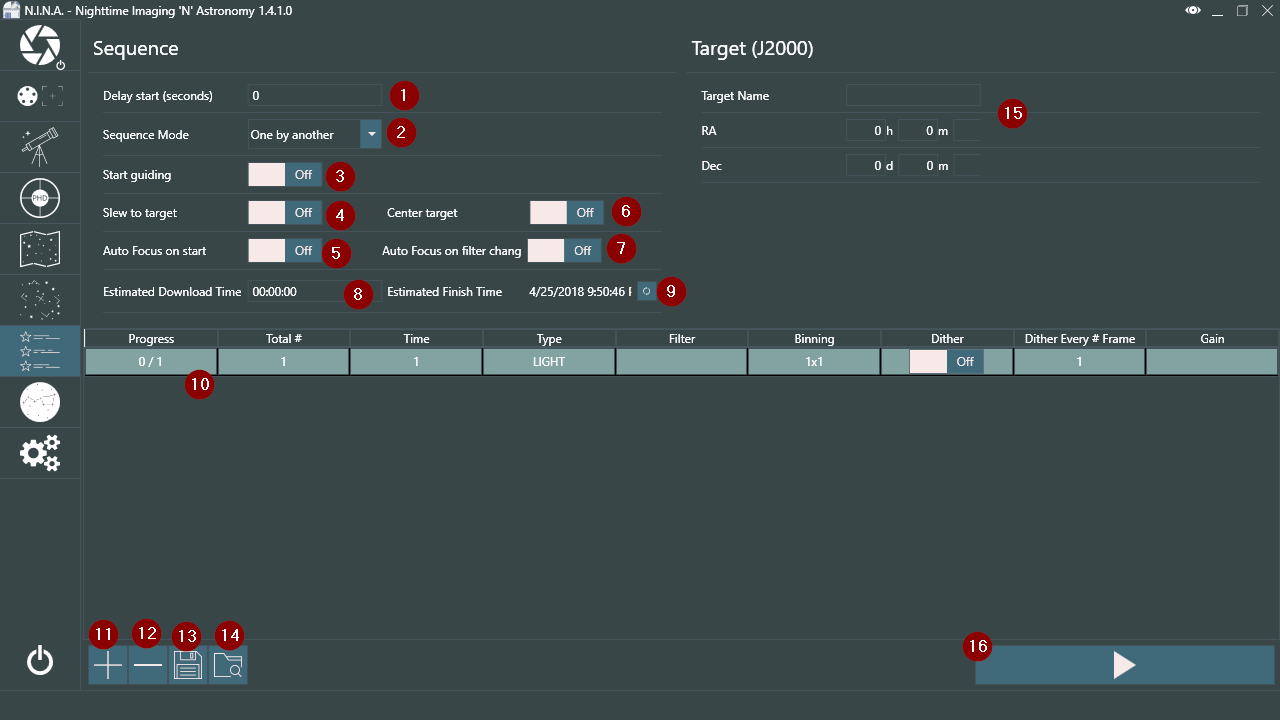
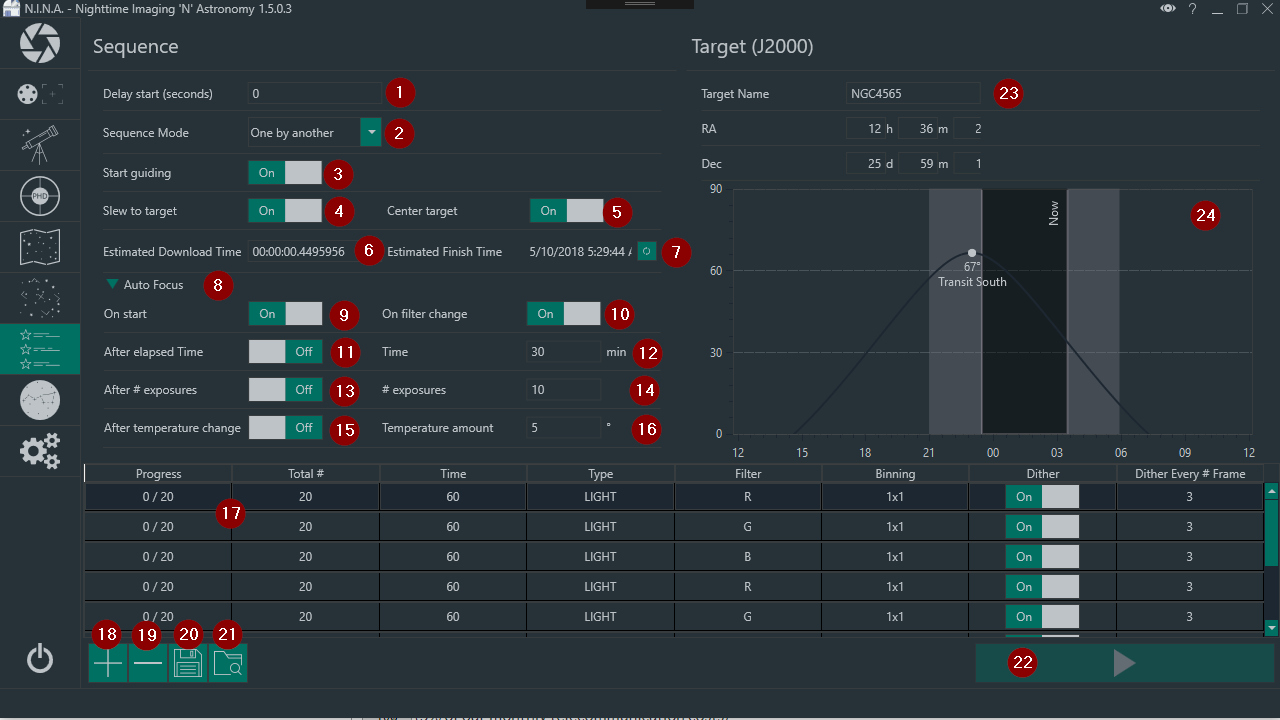
Added new autofocus options to manual
Former-commit-id: fb9f96f5a917602a64ed3b6715b5642a5051645a
Former-commit-id: 5c80f98a3498c001416dba45dba9d27e1d8db925

diff --git a/NINA/Documentation/NINA.html b/NINA/Documentation/NINA.html
@@ -896,14 +896,6 @@
 <li>Does not Plate Solve to verify it is on target</li>
 </ul>
 </li>
-<li><strong>Auto focus on start</strong>
-<ul>
-<li>Starts the auto focuser sequence to pinpoint the automatic focus</li>
-</ul>
-<blockquote>
-<p>Requires a connected auto focuser</p>
-</blockquote>
-</li>
 <li><strong>Center target</strong>
 <ul>
 <li>Will center the target given the Ra and Dec coordinates</li>
@@ -911,14 +903,6 @@
 </ul>
 <blockquote>
 <p>Requires a set up <a href="#plate-solving-settings">primary plate solver</a></p>
-</blockquote>
-</li>
-<li><strong>Auto focus on filter change</strong>
-<ul>
-<li>Starts the auto focus routine for every switch of the filter wheel</li>
-</ul>
-<blockquote>
-<p>Requires a connected <a href="#tab-filter-wheel-and-focuser">auto focuser</a></p>
 </blockquote>
 </li>
 <li><strong>Estimated Download Time</strong>
@@ -937,6 +921,57 @@ Will be added to calculations of (9)</p>
 </ul>
 <blockquote>
 <p>Needs to be manually refreshed using the button on the right of the estimation</p>
+</blockquote>
+</li>
+<li><strong>Auto Focus Expander</strong>
+<ul>
+<li>Will show all enabled auto focus options when not expanded</li>
+</ul>
+<blockquote>
+<p>All settings inside require a connected <a href="#tab-filter-wheel-and-focuser">auto focuser</a></p>
+</blockquote>
+</li>
+<li><strong>Auto focus on start</strong>
+<ul>
+<li>Starts the auto focuser sequence to pinpoint the automatic focus</li>
+</ul>
+</li>
+<li><strong>Auto focus on filter change</strong>
+<ul>
+<li>Starts the auto focus routine for every switch of the filter wheel</li>
+</ul>
+</li>
+<li><strong>Auto focus after elapsed time</strong>
+<ul>
+<li>Starts the auto focus routine after a set amount of time has passed since the last auto focus routine</li>
+</ul>
+</li>
+<li><strong>Time that has to pass</strong>
+<ul>
+<li>Specifies the time in minutes that have to pass to trigger the auto focus routine</li>
+</ul>
+</li>
+<li><strong>Auto focus after a number of exposures</strong>
+<ul>
+<li>Starts the auto focus routine after a set amount of exposures have been taken since the last auto focus routine</li>
+</ul>
+</li>
+<li><strong>Amount of exposures</strong>
+<ul>
+<li>Specifies the number of exposures that have to be taken to trigger the auto focus routine</li>
+</ul>
+</li>
+<li><strong>Auto focus after a temperature change</strong>
+<ul>
+<li>Starts the auto focus routine after a set amount of temperature change</li>
+</ul>
+</li>
+<li><strong>Amount of temperature change</strong>
+<ul>
+<li>Specifies the temperature difference that has to be reached after the last auto focus routine</li>
+</ul>
+<blockquote>
+<p>Requires a temperature sensor that reports the temperature for the <a href="#tab-filter-wheel-and-focuser">auto focuser</a></p>
 </blockquote>
 </li>
 <li><strong>Sequence entry</strong>
@@ -982,13 +1017,6 @@ Will be added to calculations of (9)</p>
 <li>Will overwrite all current sequence settings</li>
 </ul>
 </li>
-<li><strong>Target information</strong>
-<ul>
-<li>Shows you the target name, RA and Dec</li>
-<li>Can be changed from here</li>
-<li>RA and Dec will affect slew on start (4) and center target (6)</li>
-</ul>
-</li>
 <li><strong>Start Sequence</strong>
 <ul>
 <li>Starts the sequence</li>
@@ -999,6 +1027,21 @@ Will be added to calculations of (9)</p>
 </ul>
 </li>
 </ul>
+</li>
+<li><strong>Target information</strong>
+<ul>
+<li>Shows you the target name, RA and Dec</li>
+<li>Can be changed from here</li>
+<li>RA and Dec will affect slew on start (4) and center target (6)</li>
+</ul>
+</li>
+<li><strong>Object altitude</strong>
+<ul>
+<li>Shows the objects altitude, what direction it will transit and the darkness phase of today, including the current time</li>
+</ul>
+<blockquote>
+<p>Altitude depends on Latitude and Longitude set in the <a href="#general-settings">Settings</a></p>
+</blockquote>
 </li>
 </ol>
 <hr />

diff --git a/NINA/Documentation/NINA.md b/NINA/Documentation/NINA.md
@@ -497,25 +497,39 @@ With Sequences you are able to create imaging sequences with various options for
 4. **Slew to target**
     - Slews to the target as specified in RA and Dec
     - Does not Plate Solve to verify it is on target
-5. **Auto focus on start**
-    - Starts the auto focuser sequence to pinpoint the automatic focus
-    > Requires a connected auto focuser
-6. **Center target**
+5. **Center target**
     - Will center the target given the Ra and Dec coordinates
     - Utilizes the plate solver as specified in the settings
     > Requires a set up [primary plate solver](#plate-solving-settings)
-7. **Auto focus on filter change**
-    - Starts the auto focus routine for every switch of the filter wheel
-    > Requires a connected [auto focuser](#tab-filter-wheel-and-focuser)
-8. **Estimated Download Time**
+6. **Estimated Download Time**
     - You can enter the approximate download time your camera takes to download a single image
     > Will be automatically populated with the average download times as measured by NINA on image download  
     > Will be added to calculations of (9)
-9. **Estimated Finish Time**
+7. **Estimated Finish Time**
     - Shows you the estimated finish time when your sequence will end
     - Adds the download time (8) to each sequence entry
     > Needs to be manually refreshed using the button on the right of the estimation
-10. **Sequence entry**
+8. **Auto Focus Expander**
+    - Will show all enabled auto focus options when not expanded
+    > All settings inside require a connected [auto focuser](#tab-filter-wheel-and-focuser)
+9. **Auto focus on start**
+    - Starts the auto focuser sequence to pinpoint the automatic focus    
+10. **Auto focus on filter change**
+    - Starts the auto focus routine for every switch of the filter wheel
+11. **Auto focus after elapsed time**
+    - Starts the auto focus routine after a set amount of time has passed since the last auto focus routine
+12. **Time that has to pass**
+    - Specifies the time in minutes that have to pass to trigger the auto focus routine
+13. **Auto focus after a number of exposures**
+    - Starts the auto focus routine after a set amount of exposures have been taken since the last auto focus routine
+14. **Amount of exposures**
+    - Specifies the number of exposures that have to be taken to trigger the auto focus routine
+15. **Auto focus after a temperature change**
+    - Starts the auto focus routine after a set amount of temperature change
+16. **Amount of temperature change**
+    - Specifies the temperature difference that has to be reached after the last auto focus routine
+    > Requires a temperature sensor that reports the temperature for the [auto focuser](#tab-filter-wheel-and-focuser)
+17. **Sequence entry**
     - Each sequence entry consists out of up to 9 columns which determine how the image will be shot
         - Progress: shows the current progress of the image sequence
         - Total #: the amount of frames for that specific sequence entry
@@ -528,24 +542,27 @@ With Sequences you are able to create imaging sequences with various options for
         - Dither Every # Frame: will dither only every # frame as set when dithering is enabled
         - Gain: Change the gain of the camera for this entry. Only available when camera can set gain
     - Sequences cannot be changed while the sequence is running, you need to pause, abort it or wait until it’s finished to change the amount of frames
-11. **Add new Sequence entry**
+18. **Add new Sequence entry**
     - Adds a new sequence entry line
-12. **Delete Sequence entry**
+19. **Delete Sequence entry**
     - Deletes the currently selected sequence line
-13. **Save Sequence**
+20. **Save Sequence**
     - Allows you to save the sequence as a .xml file
-14. **Open Sequence**
+21. **Open Sequence**
     - Allows to load a previously saved sequence file.
     - Will overwrite all current sequence settings
-15. **Target information**
-    - Shows you the target name, RA and Dec
-    - Can be changed from here
-    - RA and Dec will affect slew on start (4) and center target (6)
-16. **Start Sequence**
+22. **Start Sequence**
     - Starts the sequence
     - Once started morphs into two buttons which allow you to pause or cancel the sequence
         - Pausing will pause the sequence after the current frame
         - Cancel will abort the frame capture completely and stop the sequence
+23. **Target information**
+    - Shows you the target name, RA and Dec
+    - Can be changed from here
+    - RA and Dec will affect slew on start (4) and center target (6)
+24. **Object altitude**
+    - Shows the objects altitude, what direction it will transit and the darkness phase of today, including the current time
+    > Altitude depends on Latitude and Longitude set in the [Settings](#general-settings)
 
 ---
 
